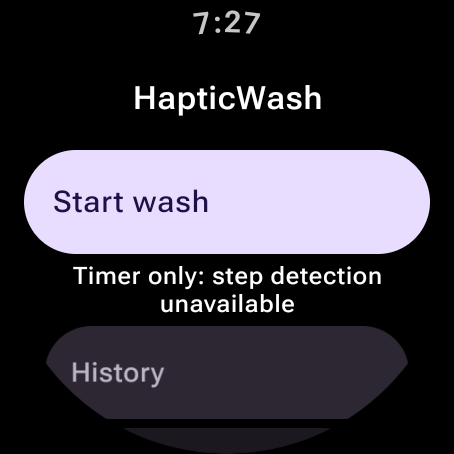
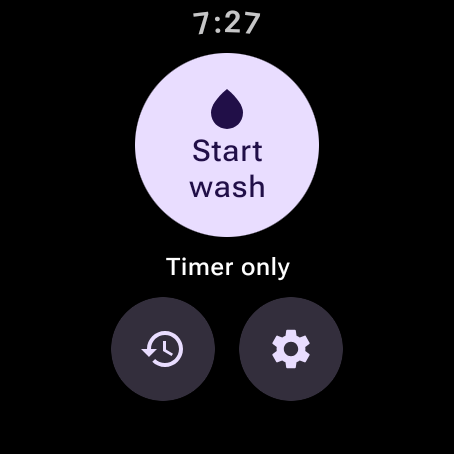
feat(ui): round Start button and Summary coverage ring
Start is one large round Start wash button with History and Settings as 52 dp icon buttons; in Timer-only the button shrinks to 92 dp and the notice is one line, so no target drops under 48 dp. Summary leads with a ring of five Step arcs (full, half, track for the three Statuses, matching the list glyphs) around "n of 5 look covered". Audit updated with the open spec questions.

diff --git a/wear/src/main/java/com/hapticwash/ui/MainActivity.kt b/wear/src/main/java/com/hapticwash/ui/MainActivity.kt
@@ -22,6 +22,19 @@ import androidx.compose.animation.core.spring
 import androidx.compose.animation.core.tween
 import androidx.compose.foundation.interaction.MutableInteractionSource
 import androidx.compose.foundation.interaction.collectIsPressedAsState
+import androidx.compose.foundation.Canvas
+import androidx.compose.foundation.shape.CircleShape
+import androidx.compose.foundation.layout.height
+import androidx.compose.foundation.layout.size
+import androidx.compose.ui.geometry.Offset
+import androidx.compose.ui.geometry.Size
+import androidx.compose.ui.graphics.StrokeCap
+import androidx.compose.ui.graphics.drawscope.Stroke
+import androidx.compose.ui.res.painterResource
+import androidx.compose.ui.semantics.contentDescription
+import androidx.wear.compose.material3.FilledTonalIconButton
+import androidx.wear.compose.material3.Icon
+import com.hapticwash.session.StepCoverage
 import androidx.compose.foundation.layout.Arrangement
 import androidx.compose.foundation.layout.Box
 import androidx.compose.foundation.layout.Column
@@ -97,6 +110,15 @@ private const val RING_TARGET_S = 40f
 private const val ROW_MS = 200f
 private const val STAGGER_MS = 40f
 private const val ENTRANCE_MS = 360 // ROW_MS + 4 × STAGGER_MS, for five rows
+
+/** Start wash: the one large target on the Start screen. */
+private val START_SIZE = 104.dp
+private val START_SIZE_COMPACT = 92.dp
+
+/** Summary ring: diameter, stroke, and the gap between Step arcs. */
+private val RING_SIZE = 124.dp
+private val RING_STROKE = 8.dp
+private const val RING_GAP_DEG = 14f
 
 /** Strong ease-out: moves at once, settles gently. */
 private val EaseOutStrong = CubicBezierEasing(0.23f, 1f, 0.32f, 1f)
@@ -196,20 +218,31 @@ private fun StartScreen(onWash: () -> Unit, onHistory: () -> Unit, onSettings: (
         timerOnly = withContext(Dispatchers.Default) { StepModel.bundled(context) == null }
     }
     val (press, pressScale) = rememberPressScale()
-    ListScreen { spec ->
-        item { ListHeader { Text(stringResource(R.string.app_name)) } }
-        item {
+    // One thing to do here, so one large target; History and Settings are rarely needed and stay small.
+    ScreenScaffold { padding ->
+        Column(
+            Modifier.fillMaxSize().padding(padding),
+            verticalArrangement = Arrangement.spacedBy(8.dp, Alignment.CenterVertically),
+            horizontalAlignment = Alignment.CenterHorizontally,
+        ) {
             Button(
                 onClick = ::start,
-                modifier = morph(spec).then(pressScale),
+                // Smaller in Timer-only, so the notice fits without squeezing the 48 dp icon buttons (§4.1.3).
+                modifier = Modifier.size(if (timerOnly) START_SIZE_COMPACT else START_SIZE).then(pressScale),
+                shape = CircleShape,
                 interactionSource = press,
-                transformation = SurfaceTransformation(spec),
-                label = { Text(stringResource(if (status.running) R.string.session_running else R.string.start_wash)) },
-            )
+            ) {
+                Column(Modifier.fillMaxWidth(), horizontalAlignment = Alignment.CenterHorizontally) {
+                    Icon(painterResource(R.drawable.ic_wash), contentDescription = null)
+                    Text(stringResource(if (status.running) R.string.session_running else R.string.start_wash), textAlign = TextAlign.Center)
+                }
+            }
+            if (timerOnly) Notice(stringResource(R.string.timer_only_short))
+            Row(horizontalArrangement = Arrangement.spacedBy(12.dp)) {
+                FilledTonalIconButton(onHistory) { Icon(painterResource(R.drawable.ic_history), stringResource(R.string.history)) }
+                FilledTonalIconButton(onSettings) { Icon(painterResource(R.drawable.ic_settings), stringResource(R.string.settings)) }
+            }
         }
-        if (timerOnly) item { Notice(stringResource(R.string.timer_only), morphContent(spec)) }
-        item { FilledTonalButton(onHistory, morph(spec), transformation = SurfaceTransformation(spec), label = { Text(stringResource(R.string.history)) }) }
-        item { FilledTonalButton(onSettings, morph(spec), transformation = SurfaceTransformation(spec), label = { Text(stringResource(R.string.settings)) }) }
     }
 }
 
@@ -285,11 +318,8 @@ private fun SummaryScreen(id: Long?) {
         if (wash == null) return@ListScreen
         val shown = wash.modelVersion != null && wash.coverageShown
         // The takeaway first, so the answer is on screen before any scrolling.
-        item {
-            ListHeader {
-                Text(if (shown) stringResource(R.string.history_hint, wash.coverage.count { it.status == StepStatus.OK }) else duration(wash.durationS))
-            }
-        }
+        if (shown) item { CoverageRing(wash.coverage, { entrance.value }, morphContent(spec)) }
+        else item { ListHeader { Text(duration(wash.durationS)) } }
         when {
             wash.modelVersion == null -> item { Notice(stringResource(R.string.timer_only), morphContent(spec)) }
             !wash.coverageShown -> item { Notice(stringResource(R.string.too_short), morphContent(spec)) }
@@ -301,8 +331,7 @@ private fun SummaryScreen(id: Long?) {
                     // Icon and text, never colour alone (§4.1.10); the glyph is read as the text. Colour only adds emphasis.
                     Row(
                         morphContent(spec).graphicsLayer {
-                            val t = ((entrance.value * ENTRANCE_MS - i * STAGGER_MS) / ROW_MS).coerceIn(0f, 1f)
-                            val p = EaseOutStrong.transform(t)
+                            val p = staggered(entrance.value, i)
                             alpha = p
                             translationY = (1 - p) * rise
                         }.padding(horizontal = 16.dp).semantics(mergeDescendants = true) {}, horizontalArrangement = Arrangement.spacedBy(8.dp)) {
@@ -382,6 +411,46 @@ private fun rememberPressScale(): Pair<MutableInteractionSource, Modifier> {
     val pressed by source.collectIsPressedAsState()
     val scale by animateFloatAsState(if (pressed) 0.96f else 1f, spring(dampingRatio = 1f, stiffness = Spring.StiffnessMedium))
     return source to Modifier.graphicsLayer { scaleX = scale; scaleY = scale }
+}
+
+/** Row [i]'s share of the Summary entrance, eased: 0 before its turn, 1 once it has settled. */
+private fun staggered(entrance: Float, i: Int) =
+    EaseOutStrong.transform(((entrance * ENTRANCE_MS - i * STAGGER_MS) / ROW_MS).coerceIn(0f, 1f))
+
+/**
+ * The five Steps as arcs around the takeaway, clockwise from 12 o'clock in list order. Shape
+ * carries the Status, not colour (§4.1.10): Looks covered fills the arc, May have been brief fills
+ * half, Not detected leaves only the track, like the ✓ ◐ ○ glyphs below. The list says it in words.
+ */
+@Composable
+private fun CoverageRing(coverage: List<StepCoverage>, entrance: () -> Float, modifier: Modifier) {
+    val colors = MaterialTheme.colorScheme
+    val ok = coverage.count { it.status == StepStatus.OK }
+    val takeaway = stringResource(R.string.history_hint, ok)
+    Box(modifier.height(RING_SIZE).clearAndSetSemantics { contentDescription = takeaway }, contentAlignment = Alignment.Center) {
+        Canvas(Modifier.size(RING_SIZE)) {
+            val stroke = RING_STROKE.toPx()
+            val topLeft = Offset(stroke / 2, stroke / 2)
+            val arc = Size(size.width - stroke, size.height - stroke)
+            val style = Stroke(stroke, cap = StrokeCap.Round)
+            val slot = 360f / coverage.size
+            coverage.forEachIndexed { i, c ->
+                val start = -90f + i * slot + RING_GAP_DEG / 2
+                val sweep = slot - RING_GAP_DEG
+                drawArc(colors.surfaceContainer, start, sweep, false, topLeft, arc, style = style)
+                val share = when (c.status) {
+                    StepStatus.OK -> 1f
+                    StepStatus.BRIEF -> 0.5f
+                    StepStatus.NOT_DETECTED -> 0f
+                }
+                if (share > 0f) drawArc(colors.primary, start, sweep * share * staggered(entrance(), i), false, topLeft, arc, style = style)
+            }
+        }
+        Column(horizontalAlignment = Alignment.CenterHorizontally) {
+            Text(stringResource(R.string.ring_count, ok), style = MaterialTheme.typography.titleLarge)
+            Text(stringResource(R.string.ring_caption), color = colors.onSurfaceVariant, style = MaterialTheme.typography.bodySmall)
+        }
+    }
 }
 
 @Composable

diff --git a/docs/UX_AUDIT.md b/docs/UX_AUDIT.md
@@ -34,9 +34,9 @@ Columns are the screens: **St** Start, **IP** In-progress, **Su** Summary, **Hi*
 | § | Item | St | IP | Su | Hi | Se | Notes |
 |---|---|---|---|---|---|---|---|
 | 1 | Glanceable < 5 s | ✓ | ✓ | ✓ | ✓ | ✓ | Each screen has one header and short lines. Summary is five rows of a Step name and its Status. |
-| 2 | Round-safe, scaling list, `TimeText` | ✓ | ✓ | ✓ | ✓ | ✓ | Lists use `TransformingLazyColumn`, the Wear Material 3 successor to `ScalingLazyColumn`. `TimeText` comes from `AppScaffold` on every screen. In-progress is centred and not scrollable. The ring leaves a 60° gap at the top for `TimeText` (fixed in this audit: it used to run under the clock). |
-| 3 | Touch targets ≥ 48 dp; one primary action | ✓ | ✓ | — | ✓ | ✓ | Buttons are 203 × 52 dp; Stop is 162 × 52 dp (widened after review); History rows are ≥ 52 dp tall. Start's primary action is Start wash (History and Settings are tonal); In-progress's is Stop. Summary, History and Settings are lists with no primary action, so none has more than one. |
-| 4 | One-tap start | ✓ | — | — | — | — | Start wash is the first item. A single tap starts the service and opens In-progress. |
+| 2 | Round-safe, scaling list, `TimeText` | ✓ | ✓ | ✓ | ✓ | ✓ | Lists use `TransformingLazyColumn`, the Wear Material 3 successor to `ScalingLazyColumn`. `TimeText` comes from `AppScaffold` on every screen. Start and In-progress are centred and not scrollable. The ring leaves a 60° gap at the top for `TimeText` (fixed in this audit: it used to run under the clock). |
+| 3 | Touch targets ≥ 48 dp; one primary action | ✓ | ✓ | — | ✓ | ✓ | List buttons are 203 × 52 dp; Stop is 162 × 52 dp (widened after review); History rows are ≥ 52 dp tall. Start wash is a 104 dp round button (92 dp in Timer-only), History and Settings 52 dp tonal icon buttons (redesign, below). Start's primary action is Start wash; In-progress's is Stop. Summary, History and Settings are lists with no primary action, so none has more than one. |
+| 4 | One-tap start | ✓ | — | — | — | — | Start wash is the large centre button. A single tap starts the service and opens In-progress. The Tile and the complication start a Wash from outside the app (below). |
 | 5 | No text entry; dialogs ≤ 2 options; depth ≤ 2 | ✓ | ✓ | ✓ | ✓ | ✓ | No text fields. The only dialog is the system notification permission (Allow / Don't allow), now asked on the first Start tap. Wrist side is two radio buttons. Deepest paths: Start → In-progress → Summary (In-progress is popped) and Start → History → Summary. Swipe-to-dismiss works from In-progress, Summary, History and Settings. A swipe mid-Wash leaves it running; Start then shows "Wash in progress" and returns to In-progress. |
 | 6 | Haptics, patterns, ≤ 1 per 3 s | — | ✓ | ◐ | — | ✓ | From `dumpsys vibrator_manager`: start 80 ms; end 80 + 120 + 80 ms; missed-step 600 ms, starting 3.2 s after the end pulses start (13 s Wash, all `NOT_DETECTED`). A too-short Wash and a Timer-only Wash each got only start and end. Replays are silent. The Haptics setting is read at fire time (unit-tested in `HapticsTest`). See note A. |
 | 7 | Ambient / screen-off | — | ✓ | — | — | — | `KEYCODE_SLEEP` mid-Wash put the device in `Dozing`: 17 windows logged in 25 s (1.5 s stride), and on wake the Wash was still running at 0:45. No crash in logcat. |
@@ -50,7 +50,9 @@ Because of emulator vibrator latency it began 2.92 s after the end pulses actual
 finished. That meets §4.1.6 but is 80 ms short of M4-PLAN's "≥ 3 s after the end pulses", hence ◐. Re-check on hardware (M6) if the "≥ 3 s after the end
 pulses" wording in M4-PLAN is read strictly.
 
-**B — labels.** No control is icon-only. Every interactive element is a Material 3
+**B — labels.** History and Settings on Start are icon-only; their icons carry the
+`contentDescription` "History" and "Settings" (`uiautomator dump`). The Summary ring is one
+node read as "n of 5 look covered". Every other interactive element is a Material 3
 `Button`/`FilledTonalButton`/`SwitchButton`, and its accessible label is its merged text
 label (`uiautomator dump`: each clickable node wraps exactly its label and secondary
 label). Compose uses that text as the spoken name, so there is no separate
@@ -127,6 +129,34 @@ carousel too).
 The Tile was added with the `DEBUG_SURFACE` broadcast (`add-tile`, `show-tile`); the complication
 through the watch face editor. No new permission: `ManifestTest` passes, and the release build
 (R8) succeeds. `./gradlew :wear:testDebugUnitTest`: 32 tests, 0 failures, 1 skipped.
+
+## Redesign: Start and Summary
+
+Same day, same AVD, after the Tile and complication. `MainActivity.kt`, `strings.xml` and two
+icons.
+
+- **Start** is one large round Start wash button with a drop icon, and History and Settings as
+  52 dp tonal icon buttons under it. The screen no longer scrolls. In Timer-only the button is
+  92 dp and the notice reads "Timer only", so the icon buttons keep 52 dp (first try squeezed
+  them to about 33 dp). While a Wash runs the button reads "Wash in progress".
+- **Summary** leads with a ring: five arcs, clockwise from 12 o'clock in list order, around
+  "n of 5 / look covered". Looks covered fills an arc, May have been brief fills half, Not detected
+  leaves the track, matching the ✓ ◐ ○ glyphs, so shape carries the Status and colour only
+  repeats it (§4.1.10). The arcs grow in with the row cascade. The list below is unchanged.
+  Too-short and Timer-only Summaries keep the duration header.
+
+Screenshots retaken: Start, Start (Timer-only, corrupt-model build again; the real model was
+restored and loads), Summary (mixed) and scrolled. `./gradlew :wear:testDebugUnitTest`: 32 tests,
+0 failures, 1 skipped.
+
+**Not done, needs a spec decision:**
+- Countdown and a completion tap: M4 asks for elapsed time on In-progress, and §4.1.6 defines
+  exactly three vibration patterns.
+- A five-segment pacing ring on In-progress: may read as naming a Step during the Wash.
+- A weekly strip on History: History keeps the last 20 Washes (M4), so weekly counts would
+  undercount.
+- **Always-on placeholder:** M4 lists "always-on toggle placeholder" under Settings. The polish
+  pass removed the disabled switch; restore it or amend M4.
 
 ## Other M4 checks
 
